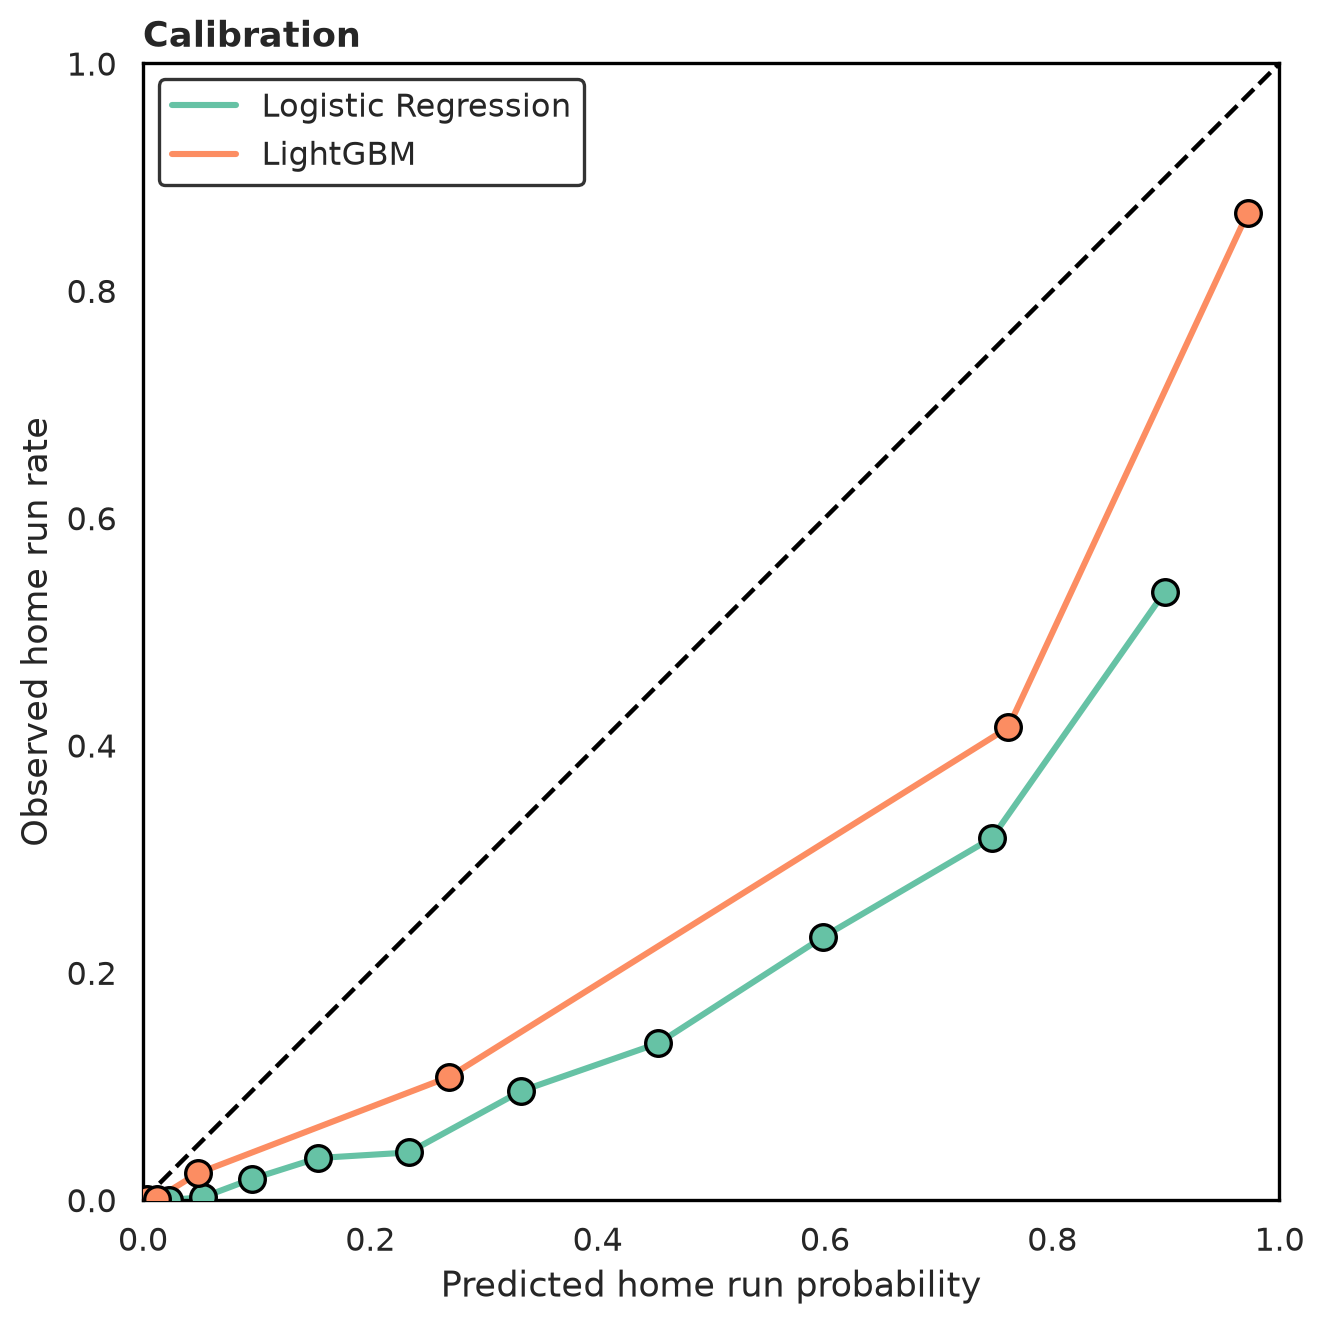
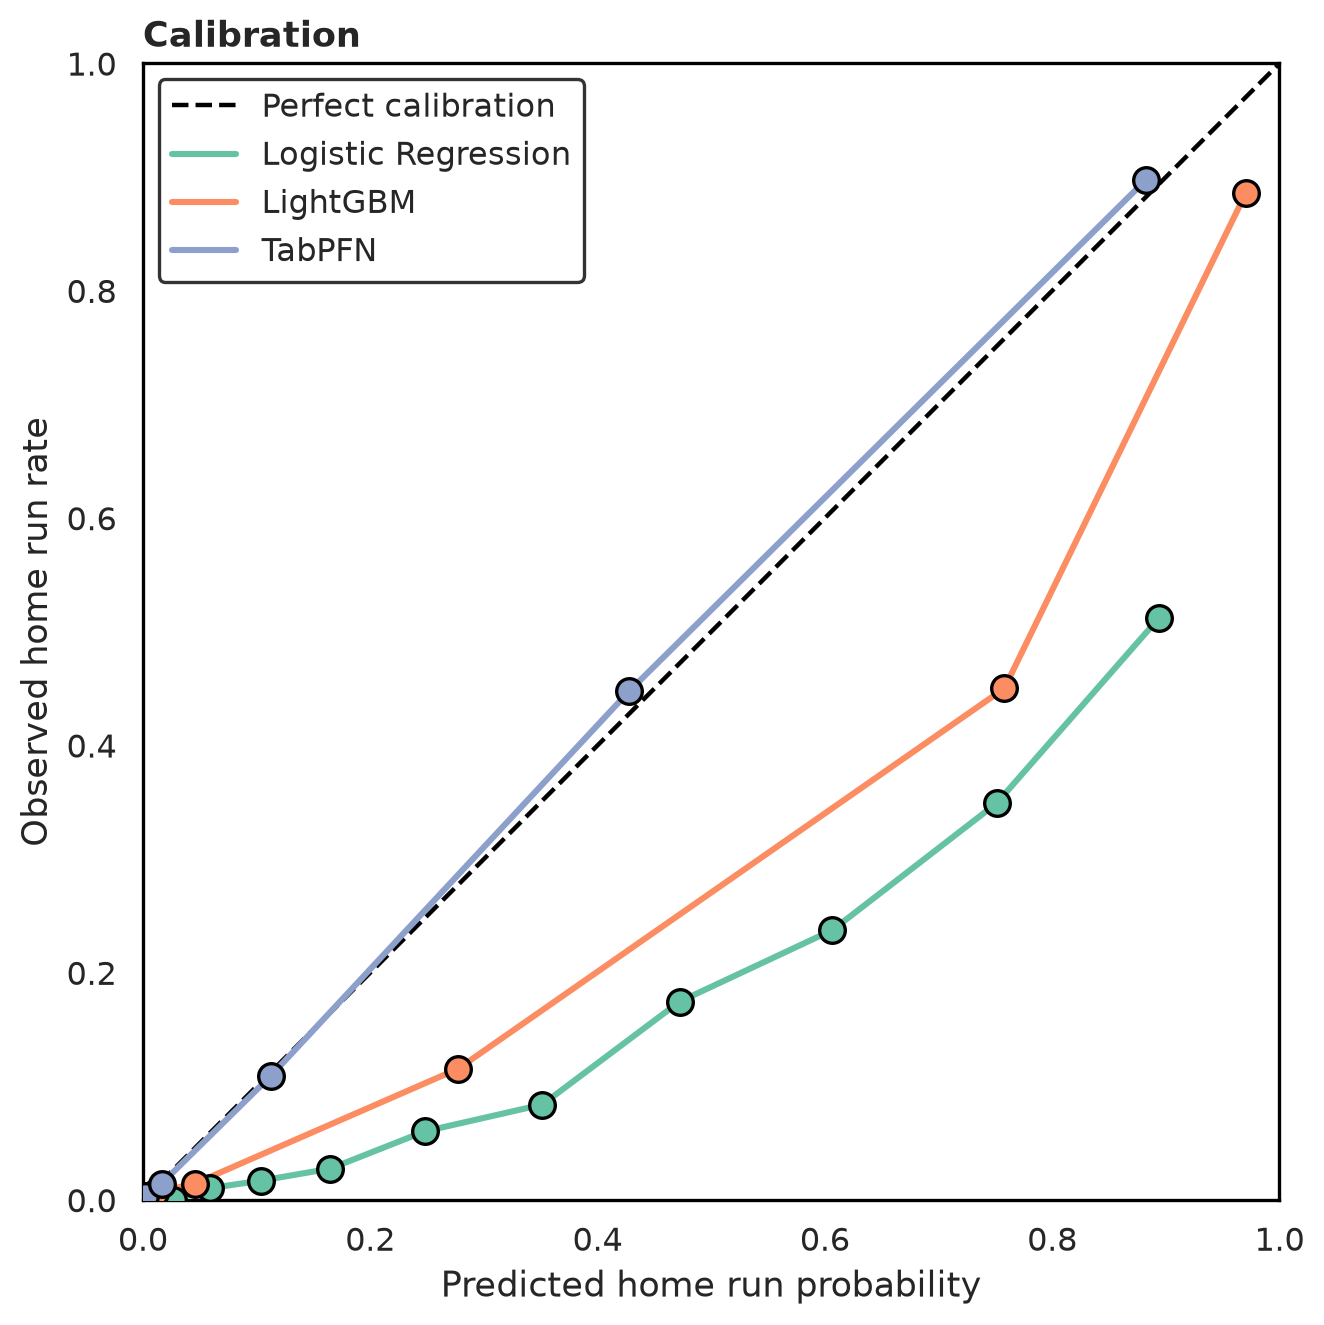
Homerun: regular season only, TabPFN v3.5 results, refreshed figures

diff --git a/homerun-probability-model/src/modeling.py b/homerun-probability-model/src/modeling.py
@@ -93,14 +93,19 @@ def train_lightgbm(X_train, y_train):
     return model.fit(as_category(X_train), y_train, categorical_feature=["home_team"])
 
 
-def train_tabpfn(X_train, y_train, device: str = "cuda"):
-    """TabPFN foundation model. Requires the TABPFN_TOKEN environment variable."""
+def train_tabpfn(X_train, y_train, device: str = "cuda", version: str = "v3.5"):
+    """TabPFN foundation model (default v3.5).
+
+    Requires the TABPFN_TOKEN environment variable, and the license of the chosen
+    model version must be accepted on your Prior Labs account.
+    """
     from tabpfn import TabPFNClassifier
+    from tabpfn.constants import ModelVersion
 
     if "TABPFN_TOKEN" not in os.environ:
         raise RuntimeError("Set the TABPFN_TOKEN environment variable before training TabPFN.")
 
-    model = TabPFNClassifier(device=device)
+    model = TabPFNClassifier.create_default_for_version(ModelVersion(version), device=device)
     return model.fit(as_category(X_train), y_train)
 
 

diff --git a/homerun-probability-model/src/visualize.py b/homerun-probability-model/src/visualize.py
@@ -128,7 +128,7 @@ def plot_calibration_curves(y_test, proba_by_model: dict, path: Path | None = No
     palette = _model_palette(proba_by_model)
 
     fig, ax = plt.subplots(figsize=(6.8, 6.8))
-    ax.plot([0, 1], [0, 1], color=EDGE, linestyle="--", linewidth=1.6, zorder=1)
+    ax.plot([0, 1], [0, 1], color=EDGE, linestyle="--", linewidth=1.6, zorder=1, label="Perfect calibration")
     for name, proba in proba_by_model.items():
         observed, predicted = calibration_curve(y_test, proba, n_bins=10, strategy="quantile")
         ax.plot(predicted, observed, color=palette[name], linewidth=2.2, zorder=2, label=name)

diff --git a/homerun-probability-model/src/preprocessing.py b/homerun-probability-model/src/preprocessing.py
@@ -9,9 +9,10 @@ from src.config import HC_X_ORIGIN, HC_Y_ORIGIN, SPRAY_ANGLE_SCALE
 
 
 def load_statcast(start_dt: str, end_dt: str) -> pd.DataFrame:
-    """Download Statcast pitch-level data for the given period (cached by pybaseball)."""
+    """Download Statcast pitch-level data (cached by pybaseball) and keep regular-season games only."""
     cache.enable()
-    return statcast(start_dt=start_dt, end_dt=end_dt, verbose=False)
+    df = statcast(start_dt=start_dt, end_dt=end_dt, verbose=False)
+    return df[df["game_type"] == "R"].copy()
 
 
 def build_dataset(df_origin: pd.DataFrame) -> pd.DataFrame:

diff --git a/homerun-probability-model/README.md b/homerun-probability-model/README.md
@@ -1,26 +1,26 @@
 # What Makes a Home Run?
 
-**A home run probability model built on 2025 MLB Statcast batted balls, and what its feature importance says about launch speed, launch angle, spray angle and ballpark.**
+**A home run probability model built on 2025 MLB Statcast batted balls (regular season), and what its feature importance says about launch speed, launch angle, spray angle and ballpark.**
 
 <p align="center">
   <img src="figures/01_home_run_rate_map.png" alt="Observed home run rate by launch speed, launch angle and spray angle" width="100%">
 </p>
 
-<p align="center"><sub>Observed home run rate of home run candidate balls (40,637 balls, 5,765 home runs). Gray cells have fewer than 20 balls.</sub></p>
+<p align="center"><sub>Observed home run rate of home run candidate balls (38,107 balls, 5,616 home runs). Gray cells have fewer than 20 balls.</sub></p>
 
 ## Key findings
 
 | Model | Test F1 | Precision | Recall |
 |---|---|---|---|
-| LightGBM | **0.780** | 0.760 | 0.801 |
-| TabPFN* | 0.779 | 0.723 | 0.845 |
-| Logistic Regression | 0.505 | 0.409 | 0.661 |
+| TabPFN (v3.5) | **0.793** | 0.813 | 0.774 |
+| LightGBM | 0.783 | 0.814 | 0.754 |
+| Logistic Regression | 0.502 | 0.410 | 0.649 |
 
-<sub>*TabPFN numbers come from the original run on a GPU with a TabPFN token. The other two rows are reproduced by `python main.py`.</sub>
+<sub>Test set, F1-optimal threshold chosen on the validation set. Brier score: TabPFN 0.042, LightGBM 0.058, Logistic Regression 0.165.</sub>
 
-- **Non-linear models separate home runs far better.** LightGBM and TabPFN reach F1 near 0.78, while Logistic Regression stays at 0.51.
+- **Non-linear models separate home runs far better.** TabPFN and LightGBM reach F1 near 0.79 and 0.78, while Logistic Regression stays at 0.50.
 - **Speed and angle decide it.** Shuffling launch speed or launch angle hurts the predicted probabilities most, spray angle comes next, and **home team adds little** — how hard and at what angle a ball is hit tells far more than which park it is hit in.
-- **The ranking is stable across models.** In the original TabPFN analysis the importances were launch speed 0.1067, launch angle 0.0973, spray angle 0.0337 and home team 0.0043; LightGBM gives the same order (0.1156, 0.1098, 0.0401, 0.0078).
+- **TabPFN is the best calibrated.** Its importances are launch speed 0.1061, launch angle 0.0976, spray angle 0.0375 and home team 0.0081.
 
 <p align="center">
   <img src="figures/04_feature_importance.png" alt="Permutation feature importance" width="70%">
@@ -35,13 +35,13 @@ After reading Leo Breiman's *Statistical Modeling: The Two Cultures* in an intro
   <img src="figures/03_calibration.png" alt="Calibration curves" width="34%">
 </p>
 
-<p align="center"><sub>Models trained with balanced class weights predict higher probabilities than the observed rate, so their curves sit below the diagonal. In the original run TabPFN's probabilities were the closest to the actual home run rate, which is why it was used for the importance analysis.</sub></p>
+<p align="center"><sub>Models trained with balanced class weights predict higher probabilities than the observed rate, so their curves sit below the diagonal. TabPFN's probabilities follow the diagonal most closely, which is why it is used for the importance analysis.</sub></p>
 
 ## How it works
 
-1. **Data.** Statcast batted balls from 2025-03-18 to 2025-09-28 via `pybaseball`. A ball is a home run candidate when its launch speed and angle are at least the smallest values seen on an actual home run.
+1. **Data.** Regular-season (`game_type == "R"`) Statcast batted balls from 2025-03-18 to 2025-09-28 via `pybaseball`. A ball is a home run candidate when its launch speed and angle are at least the smallest values seen on an actual home run.
 2. **Features.** Launch speed, launch angle, spray angle (computed from the field coordinates) and home team as a categorical variable for park effects.
-3. **Models.** Logistic Regression as the baseline, LightGBM for non-linear relationships and TabPFN, a Transformer-based foundation model for tabular data. The data is split 60/20/20 with the class ratio preserved, the F1-optimal threshold is chosen on the validation set, and the test set gives the final scores. Calibration curves check how well probabilities match actual rates.
+3. **Models.** Logistic Regression as the baseline, LightGBM for non-linear relationships and TabPFN (v3.5), a Transformer-based foundation model for tabular data. The data is split 60/20/20 with the class ratio preserved, the F1-optimal threshold is chosen on the validation set, and the test set gives the final scores. Calibration curves check how well probabilities match actual rates.
 4. **Importance.** Permutation importance: shuffle one feature at a time and measure the increase in Brier score. This works for models such as TabPFN that have no built-in importance.
 
 ## Run it
@@ -72,7 +72,7 @@ homerun-probability-model/
 
 - Park effects are reduced to one categorical variable (home team), which does not capture fence distance and height by direction, or temperature, humidity and wind.
 - Park dimensions matter in practice: a study at the 2025 SABR Analytics Conference examined how changing ballpark dimensions could change a team's run scoring. Next, I plan to combine fence distance and height by direction with the batted-ball direction and add environmental variables, to model how the same batted ball's home run probability changes by park and conditions.
-- The Statcast window is the original one (2025-03-18 to 2025-09-28), which also includes a few spring training games played at the start; keeping only `game_type == "R"` is a one-line change.
+- TabPFN permutation importance is slow (about a day on a laptop GPU); lower the number of repeats or the sample size to speed it up.
 
 ## Tech stack
 
